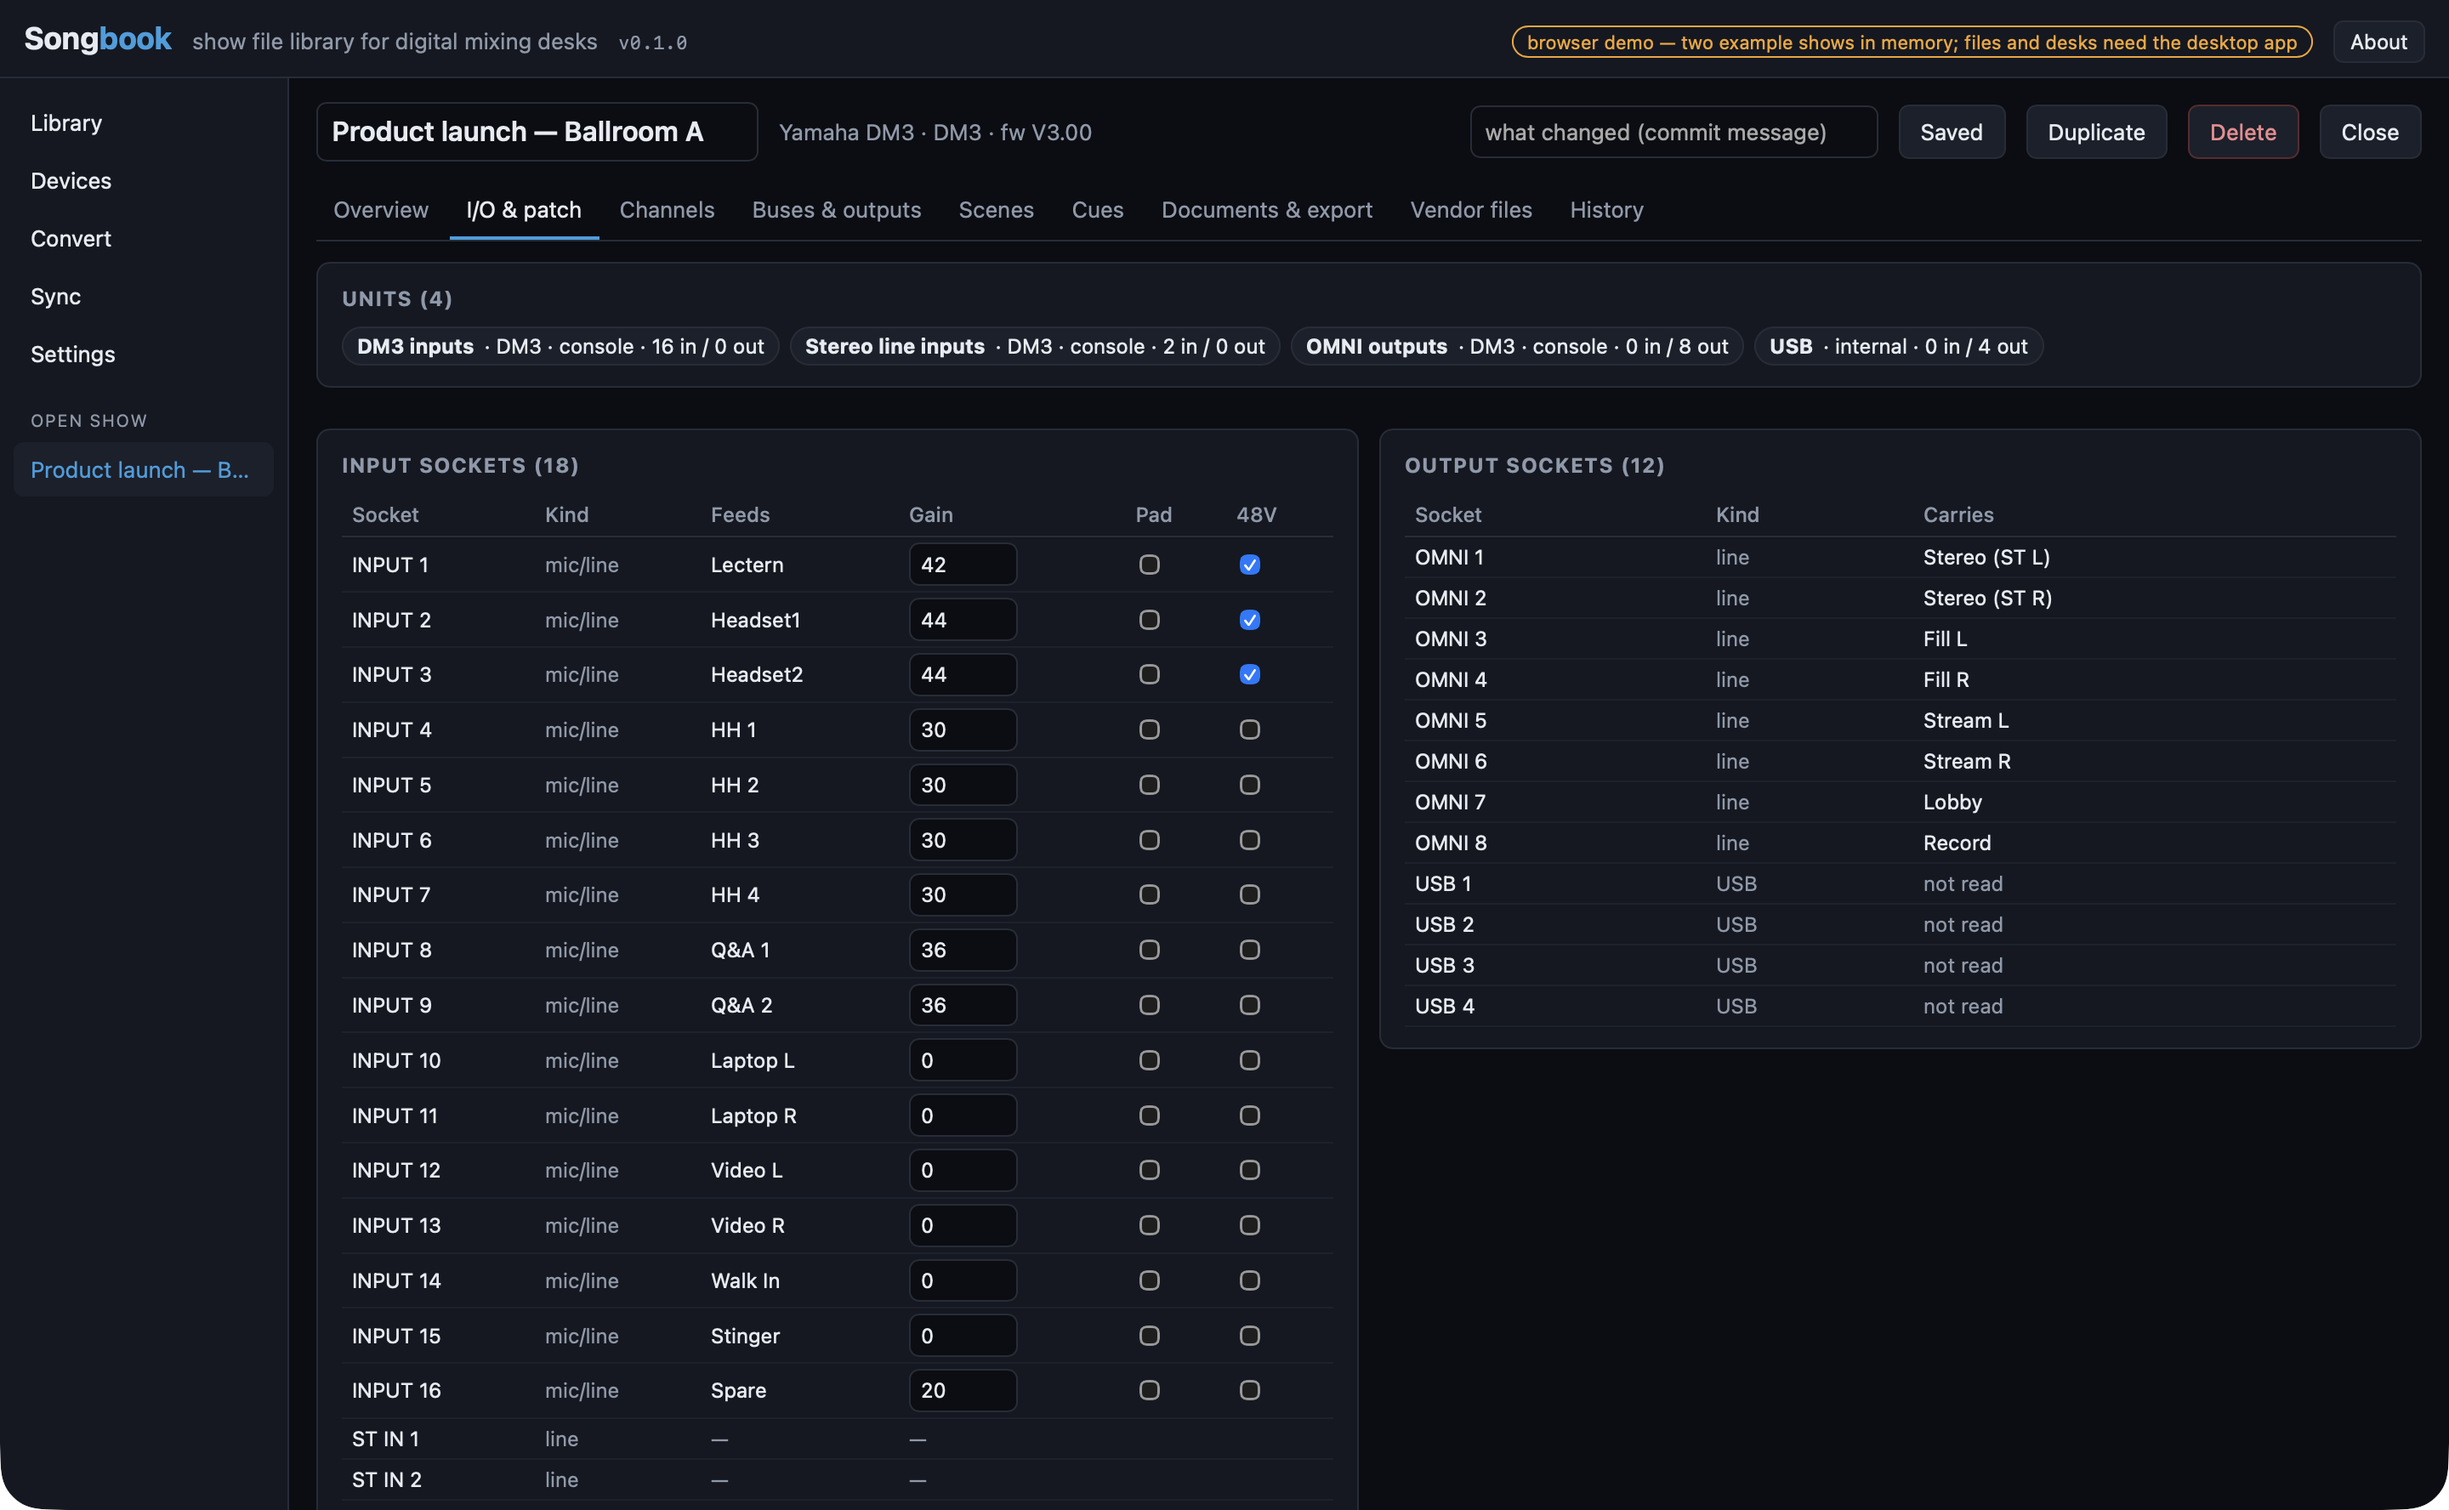
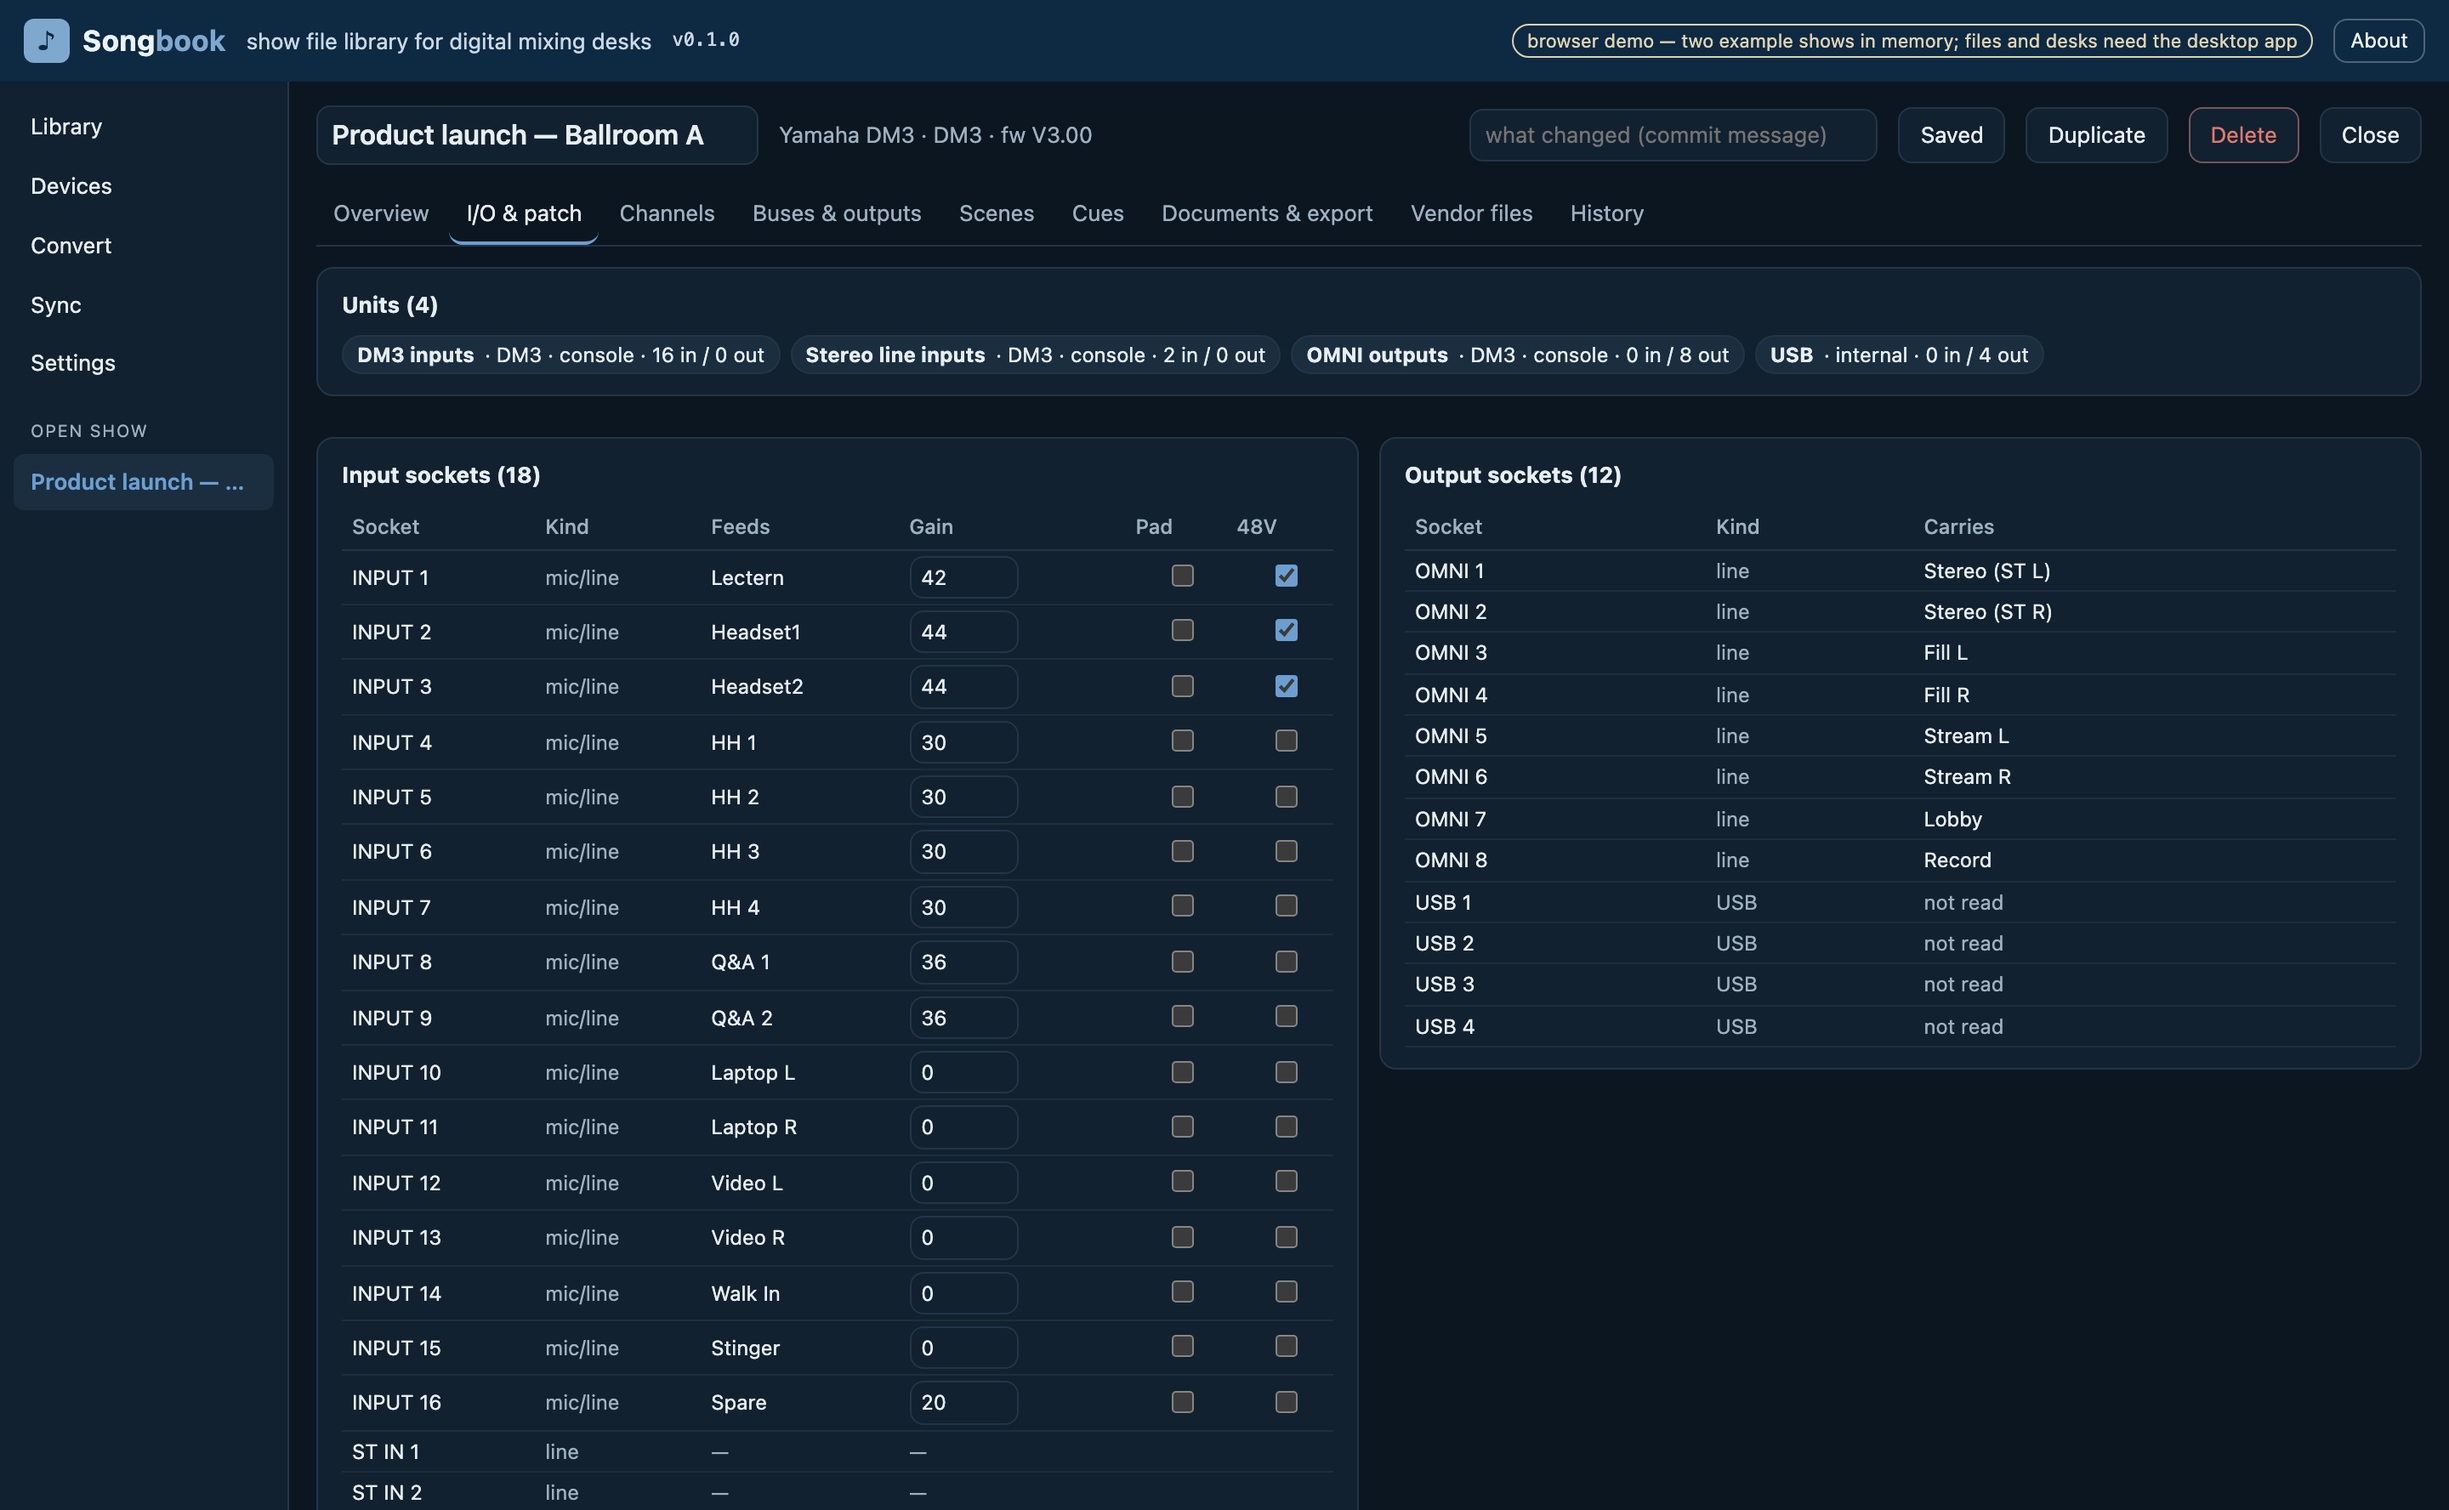
docs: retake screenshots in the new dark theme
channels.png, buses.png, library.png: the browser demo's SQ-5 show (Summer Live 2026 - FOH) on Channels with Input 1 selected, on Buses & outputs, and the two-show demo library. io.png: the demo DM3 show (Product launch - Ballroom A) on I/O & patch. All 1440x888 at 2x from the Vite dev server, which runs the desktop renderer against the in-memory demo. lite-io.png, lite-library.png: live Songbook Lite with fixtures/sq7 (MixPad's SQ-7 show) on I/O & patch, and the library holding it beside fixtures/ql5/pfql_base.CLF, 1600x986. The lite-io alt text no longer says Safari, and the status note names Songbook Lite rather than the desktop app as the second source.

diff --git a/README.md b/README.md
@@ -51,7 +51,7 @@ It links back to this repository for the full desktop app.
 Build it locally with `npm run build:lite` (it needs `rustup target add wasm32-unknown-unknown`),
 and `npm run dev:lite` serves it on :5179 once `lite/public/songbook.wasm` exists.
 
-![Songbook Lite in Safari: MixPad's SQ-7 show on the I/O tab, parsed by the Rust core in WebAssembly](docs/screenshots/lite-io.png)
+![Songbook Lite: MixPad's SQ-7 show on the I/O tab, parsed by the Rust core in WebAssembly](docs/screenshots/lite-io.png)
 
 ## Running the desktop app
 
@@ -109,7 +109,7 @@ What's been checked, and against what:
   fader law is assumed to be the dLive one.
 - **Conversion, Companion export, documentation, labels, library, history, folder sync:** unit
   tested. The PDF and the web page were read page by page in every theme, and the screenshots
-  above came from the browser demo and the desktop app.
+  above came from the browser demo and Songbook Lite.
 - **Cloud sync:** the Dropbox, Google Drive and OneDrive providers follow their public API
   references with OAuth PKCE on a loopback redirect. They need an app registration only the
   account holder can make, and haven't been run against a live account.
